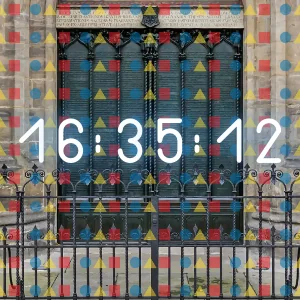
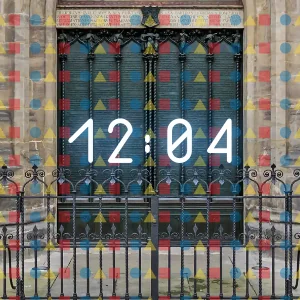
s

diff --git a/src/pages/2026/26-07/26-07-14/Clock.tsx b/src/pages/2026/26-07/26-07-14/Clock.tsx
@@ -85,10 +85,10 @@ export default function DigitalClock() {
   const time = useClockTime();
   useSuspenseFontLoader(fontConfigs);
 
+  // Removed formatTime(time.getSeconds()) from the array
   const timeString = [
     formatTime(time.getHours()),
     formatTime(time.getMinutes()),
-    formatTime(time.getSeconds()),
   ].join(':');
 
   return (
